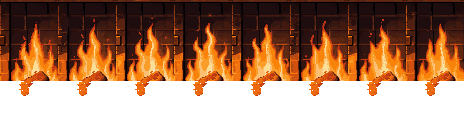
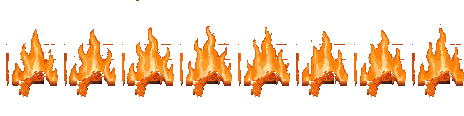
feat(cabin): refine the fire, desk, piano, and idle motion
Only flame colours animate, and nothing crosses the grate. The desk gains a mouse and pads, the piano sits on the floor, Dan blinks and types with his hands alone, and Mishka breathes from her ribs.

diff --git a/src/components/game/room-scene.ts b/src/components/game/room-scene.ts
@@ -24,6 +24,7 @@ export type RoomLayout = {
   mishkaFrames: number;
   city: number[][];
   coffee: Point;
+  blink: Box;
   candles: Point[];
   snore: Point;
 };
@@ -42,7 +43,12 @@ const TERMINAL_ROW = 12;
 const EDITOR_ROW = 6;
 const EDITOR_SCROLL_SECONDS = 1.6;
 const FIRE_FPS = 9;
-const BREATH_FPS = 3;
+const BREATH_FPS = 2.4;
+const BLINK_EVERY_SECONDS = 5.3;
+const DOUBLE_BLINK_EVERY_SECONDS = 5.6;
+const BLINK_SECONDS = 0.14;
+const EYELID = "#e8b888";
+const LASHES = "#4a2c20";
 const HANDS_LINGER_SECONDS = 0.18;
 const STEAM_HEIGHT = 18;
 const SCREEN_DETAIL = 3;
@@ -183,6 +189,15 @@ function drawWindow(ctx: Ctx, stars: number[][], city: number[][], t: number) {
   });
 }
 
+function drawBlink(ctx: Ctx, blink: Box, t: number) {
+  const closed = t % BLINK_EVERY_SECONDS < BLINK_SECONDS || t % DOUBLE_BLINK_EVERY_SECONDS < BLINK_SECONDS;
+  if (!closed) return;
+  ctx.fillStyle = EYELID;
+  ctx.fillRect(blink.x, blink.y, blink.width, blink.height);
+  ctx.fillStyle = LASHES;
+  ctx.fillRect(blink.x, blink.y + blink.height - 1, blink.width, 1);
+}
+
 function drawLake(ctx: Ctx, lake: number[][], t: number) {
   lake.forEach(([x, y, width], i) => {
     if (y % 2) return;
@@ -313,6 +328,7 @@ export function createRoomScene(art: RoomArt, room: RoomLayout, terminal: Termin
         keystrokes = screen.keystrokes;
         lastKeyAt = t;
       }
+      if (animate) drawBlink(ctx, room.blink, t);
       if (lastKeyAt >= 0 && t - lastKeyAt < HANDS_LINGER_SECONDS) {
         drawStripFrame(ctx, art.hands, room.handsBox, keystrokes % room.handFrames);
       }

diff --git a/src/components/game/engine.ts b/src/components/game/engine.ts
@@ -16,7 +16,8 @@ const ROOMS = {
     focusY: 0.55,
     anchorY: 0.55,
     subjectSpan: 0.56,
-    coffee: { x: 539, y: 235 },
+    coffee: { x: 582, y: 236 },
+    blink: { x: 493, y: 190, width: 3, height: 2 },
     candles: [{ x: 688, y: 123 }, { x: 705, y: 131 }],
     snore: { x: 709, y: 304 },
   },
@@ -26,7 +27,8 @@ const ROOMS = {
     focusY: 0.63,
     anchorY: 0.62,
     subjectSpan: 0.66,
-    coffee: { x: 179, y: 487 },
+    coffee: { x: 267, y: 490 },
+    blink: { x: 151, y: 429, width: 3, height: 3 },
     candles: [{ x: 391, y: 372 }, { x: 407, y: 383 }],
     snore: { x: 349, y: 616 },
   },

diff --git a/scripts/build-room.py b/scripts/build-room.py
@@ -8,13 +8,13 @@ layer's box, so nothing outside a layer can move.
     build-room.py ~/danaimone-art public/game src/components/game/room-layouts.json
 """
 import json
+import math
 import sys
 from collections import deque
 from pathlib import Path
 
 from PIL import Image, ImageColor
 
-DIFF = 34
 GRID = 4 / 3
 PALETTE_COLORS = 160
 
@@ -24,13 +24,20 @@ def on_grid(*values):
 
 
 ROOMS = {
-    "wide": {"size": (853, 480), "fire": on_grid(529, 156, 589, 231), "hands": on_grid(345, 170, 415, 200), "dog": on_grid(450, 210, 590, 285), "window": on_grid(24, 16, 280, 180), "fireFloorRank": 0.5, "bench": {"file": "bench-102.png", "at": (28, 272), "cleared": [((96, 300, 123, 348), (78, 96)), ((123, 288, 141, 348), (142, 154))]}, "fireSeed": 51, "sleepSeed": 91, "railTop": 289, "lakeSeed": (263, 225), "hazel": [((46, 41), "#a07a2e"), ((47, 40), "#7d8a42"), ((47, 41), "#7d8a42")], "face": ("face-wide-64.png", (448, 150)), "city": (198, 192, 312, 214), "lake": (226, 213, 300, 241), "revised": [(450, 143, 512, 217), (676, 409, 772, 458), (786, 230, 853, 345)]},
-    "tall": {"size": (480, 853), "fire": on_grid(295, 356, 338, 443), "hands": on_grid(120, 365, 195, 395), "dog": on_grid(170, 440, 325, 515), "window": on_grid(22, 135, 178, 300), "fireFloorRank": 0.75, "fireSeed": 52, "sleepSeed": 92, "railTop": 572, "lakeSeed": (142, 368), "hazel": [((43, 29), "#a07a2e"), ((44, 29), "#a07a2e"), ((45, 29), "#7d8a42"), ((45, 30), "#7d8a42"), ((45, 31), "#7d8a42")], "face": ("face-tall-61.png", (108, 400)), "city": (103, 335, 178, 362), "lake": (112, 356, 172, 382), "revised": [(110, 403, 170, 460), (358, 772, 442, 822), (420, 505, 480, 665)]},
+    "wide": {"size": (853, 480), "fire": on_grid(529, 156, 589, 231), "hands": on_grid(345, 170, 415, 200), "dog": on_grid(450, 210, 590, 285), "window": on_grid(24, 16, 280, 180), "fireFloorRank": 0.5, "typeSeed": 111, "handArea": (46, 8, 70, 25), "fireSeed": 51, "railTop": 289, "lakeSeed": (263, 225), "hazel": [((46, 41), "#a07a2e"), ((47, 40), "#7d8a42"), ((47, 41), "#7d8a42")], "face": ("face-wide-64.png", (448, 150)), "city": (198, 192, 312, 214), "lake": (226, 213, 300, 241), "revised": [(450, 143, 512, 217), (676, 409, 772, 458), (786, 230, 853, 345), (0, 186, 152, 366), (505, 228, 648, 262)]},
+    "tall": {"size": (480, 853), "fire": on_grid(295, 356, 338, 443), "hands": on_grid(120, 365, 195, 395), "dog": on_grid(170, 440, 325, 515), "window": on_grid(22, 135, 178, 300), "fireFloorRank": 0.99, "emberFade": True, "typeSeed": 112, "handArea": (24, 9, 52, 26), "fireSeed": 52, "railTop": 572, "lakeSeed": (142, 368), "hazel": [((43, 29), "#a07a2e"), ((44, 29), "#a07a2e"), ((45, 29), "#7d8a42"), ((45, 30), "#7d8a42"), ((45, 31), "#7d8a42")], "face": ("face-tall-61.png", (108, 400)), "city": (103, 335, 178, 362), "lake": (112, 356, 172, 382), "revised": [(110, 403, 170, 460), (358, 772, 442, 822), (420, 505, 480, 665), (0, 464, 68, 664), (170, 486, 333, 525)]},
 }
 FIRE_FRAMES = 8
 LOG_MIN_LIGHT = 66
-TYPE_FRAMES = 4
+TYPE_POSES = (1, 2, 5, 6, 7)
+HAND_CHANGE = 30
 SLEEP_FRAMES = 8
+BREATH_PIXELS = 3
+RIB_SPAN = (0.24, 0.62)
+RIB_DEPTH = 26
+FIRE_WALL_MARGIN = 6
+WALL_MAX_LIGHT = 150
+EMBER_FADE = [(232, 117, 31), (214, 92, 26), (184, 72, 26), (150, 56, 22), (122, 46, 20)]
 STAR_GAP = 4
 SIDE_CORNER_DROP = 2
 MIN_LAKE_SPAN = 6
@@ -142,9 +149,23 @@ def fixed_logs(plate, box):
     return logs, top
 
 
-def is_mauve(color):
+def is_flame(color):
     r, g, b = color
-    return r > 110 and b >= g * 0.85 and r - b < 75
+    return r > 150 and g > 60 and r - b > 100
+
+
+def fade_into_embers(out, left, plate, x0, y0, width, height, rail_top):
+    """Soften the flat base baked into the tall frames, over dark wall only."""
+    px = plate.load()
+    for x in range(width):
+        column = [y for y in range(height) if out[left + x, y][3] and is_flame(out[left + x, y][:3])]
+        if not column:
+            continue
+        for depth, color in enumerate(EMBER_FADE):
+            y = max(column) + 1 + depth
+            if y + y0 >= rail_top or y >= height or sum(px[x + x0, y + y0]) > WALL_MAX_LIGHT or out[left + x, y][3]:
+                break
+            out[left + x, y] = color + (255,)
 
 
 def fire_strip(art, name, plate, spec):
@@ -166,25 +187,30 @@ def fire_strip(art, name, plate, spec):
                 behind_rail = y + y0 >= spec["railTop"]
                 if point in keep or behind_rail or (y + y0 >= floor and point not in logs):
                     continue
-                color = (first if point in logs else raw)[x, y]
-                if not is_mauve(color):
-                    out[index * width + x, y] = color + (255,)
+                if y + y0 >= top.get(x + x0, y1):
+                    out[index * width + x, y] = first[x, y] + (255,)
+                elif x >= FIRE_WALL_MARGIN and is_flame(raw[x, y]):
+                    out[index * width + x, y] = raw[x, y] + (255,)
+        if spec.get("emberFade"):
+            fade_into_embers(out, index * width, plate, x0, y0, width, height, spec["railTop"])
     return strip
 
 
-def layer_strip(frames, plate, box, palette_image):
-    x0, y0, x1, y1 = box
+def typing_strip(art, name, spec):
+    """PixelLab fingers only: pixels outside the hand, or unchanged, stay on the plate."""
+    x0, y0, x1, y1 = spec["hands"]
+    hx0, hy0, hx1, hy1 = spec["handArea"]
     width, height = x1 - x0, y1 - y0
-    strip = Image.new("RGBA", (width * len(frames), height))
+    load = lambda i: Image.open(art / "pixellab" / f"type-{name}-{spec['typeSeed']}-{i}.png").convert("RGB")
+    first = load(0).load()
+    strip = Image.new("RGBA", (width * len(TYPE_POSES), height))
     out = strip.load()
-    base = plate.load()
-    for index, frame in enumerate(frames):
-        mapped = frame.quantize(palette=palette_image, dither=Image.Dither.NONE).convert("RGB").load()
-        raw = frame.load()
-        for y in range(y0, y1):
-            for x in range(x0, x1):
-                if sum(abs(a - b) for a, b in zip(raw[x, y], base[x, y])) > DIFF:
-                    out[index * width + x - x0, y - y0] = mapped[x, y] + (255,)
+    for index, pose in enumerate(TYPE_POSES):
+        frame = load(pose).load()
+        for y in range(hy0, hy1):
+            for x in range(hx0, hx1):
+                if sum(abs(a - b) for a, b in zip(frame[x, y], first[x, y])) > HAND_CHANGE:
+                    out[index * width + x, y] = frame[x, y] + (255,)
     return strip
 
 
@@ -205,24 +231,34 @@ def largest_region(points):
     return best
 
 
-def sleeping_strip(art, name, plate, spec):
-    """PixelLab's breathing loop, limited to Mishka so the rug stays still."""
+def sleeping_strip(plate, spec):
+    """Swell the fur over Mishka's ribs on a breathing curve; head and tail never move."""
     x0, y0, x1, y1 = spec["dog"]
     px = plate.load()
     fur = largest_region({
         (x, y) for y in range(y0, y1) for x in range(x0, x1)
         if px[x, y][0] > 190 and px[x, y][1] > 165 and px[x, y][2] > 110
     })
-    mask = {(x + dx, y + dy) for x, y in fur for dx in range(-3, 4) for dy in range(-3, 4)}
+    left, right = min(p[0] for p in fur), max(p[0] for p in fur)
+    rib_start = left + (right - left) * RIB_SPAN[0]
+    rib_end = left + (right - left) * RIB_SPAN[1]
+    tops = {}
+    for x, y in fur:
+        tops[x] = min(y, tops.get(x, y))
     width, height = x1 - x0, y1 - y0
     strip = Image.new("RGBA", (width * SLEEP_FRAMES, height))
     out = strip.load()
     for index in range(SLEEP_FRAMES):
-        frame = Image.open(art / "pixellab" / f"sleep-{name}-{spec['sleepSeed']}-{index}.png").convert("RGB").load()
-        for y in range(height):
-            for x in range(width):
-                if (x + x0, y + y0) in mask:
-                    out[index * width + x, y] = frame[x, y] + (255,)
+        inhale = math.sin(math.pi * index / SLEEP_FRAMES) ** 2
+        for x in range(math.ceil(rib_start), math.floor(rib_end) + 1):
+            top = tops.get(x)
+            bell = math.sin(math.pi * (x - rib_start) / (rib_end - rib_start))
+            lift = round(BREATH_PIXELS * bell * inhale)
+            if top is None or lift == 0:
+                continue
+            for y in range(top - lift, top + RIB_DEPTH):
+                source = top + (y - top + lift) * RIB_DEPTH // (RIB_DEPTH + lift)
+                out[index * width + x - x0, y - y0] = px[x, source] + (255,)
     return strip
 
 
@@ -288,24 +324,12 @@ def lake_spans(plate, box, seed):
     return spans
 
 
-def replace_bench(master, art, bench):
-    px = master.load()
-    for (x0, y0, x1, y1), (clean_start, clean_end) in bench["cleared"]:
-        for y in range(y0, y1):
-            for x in range(x0, x1):
-                px[x, y] = px[clean_start + (x - x0) % (clean_end - clean_start), y]
-    sprite = Image.open(art / "pixellab" / bench["file"]).convert("RGBA")
-    master.paste(sprite.convert("RGB"), bench["at"], sprite.getchannel("A"))
-
-
 def build(art, out, name, spec):
     size = spec["size"]
     master = sampled(art / f"master-{name}.locked.png", size)
-    revision = sampled(art / f"master-{name}5.png", size)
+    revision = sampled(art / f"master-{name}7.png", size)
     for area in spec["revised"]:
         master.paste(revision.crop(area), area[:2])
-    if "bench" in spec:
-        replace_bench(master, art, spec["bench"])
     face_file, face_at = spec["face"]
     face = Image.open(art / "pixellab" / face_file).convert("RGBA")
     for point, color in spec["hazel"]:
@@ -323,10 +347,9 @@ def build(art, out, name, spec):
     palette_image = plate_rgb.quantize(colors=PALETTE_COLORS, dither=Image.Dither.NONE)
     plate = palette_image.convert("RGB")
 
-    typing = [sampled(art / f"{name}-type-{i}.png", size) for i in range(1, TYPE_FRAMES + 1)]
     fire_strip(art, name, plate_rgb, spec).save(out / f"room-{name}-fire.png", optimize=True)
-    layer_strip(typing, plate_rgb, spec["hands"], palette_image).save(out / f"room-{name}-hands.png", optimize=True)
-    sleeping_strip(art, name, plate, spec).save(out / f"room-{name}-mishka.png", optimize=True)
+    typing_strip(art, name, spec).save(out / f"room-{name}-hands.png", optimize=True)
+    sleeping_strip(plate, spec).save(out / f"room-{name}-mishka.png", optimize=True)
     mask_image(magenta, main).save(out / f"room-{name}-screen.png", optimize=True)
     mask_image(cyan, side).save(out / f"room-{name}-side.png", optimize=True)
     plate.save(out / f"interior{'' if name == 'wide' else '-tall'}.png", optimize=True)
@@ -337,7 +360,7 @@ def build(art, out, name, spec):
         "width": size[0], "height": size[1], "main": main, "side": side,
         "mainCorners": corners(magenta), "sideCorners": corners(cyan),
         "fireBox": box(spec["fire"]), "fireFrames": FIRE_FRAMES,
-        "handsBox": box(spec["hands"]), "handFrames": TYPE_FRAMES,
+        "handsBox": box(spec["hands"]), "handFrames": len(TYPE_POSES),
         "mishkaBox": box(spec["dog"]), "mishkaFrames": SLEEP_FRAMES, "stars": stars, "city": city, "lake": lake_spans(plate, spec["lake"], spec["lakeSeed"]),
     }
 
